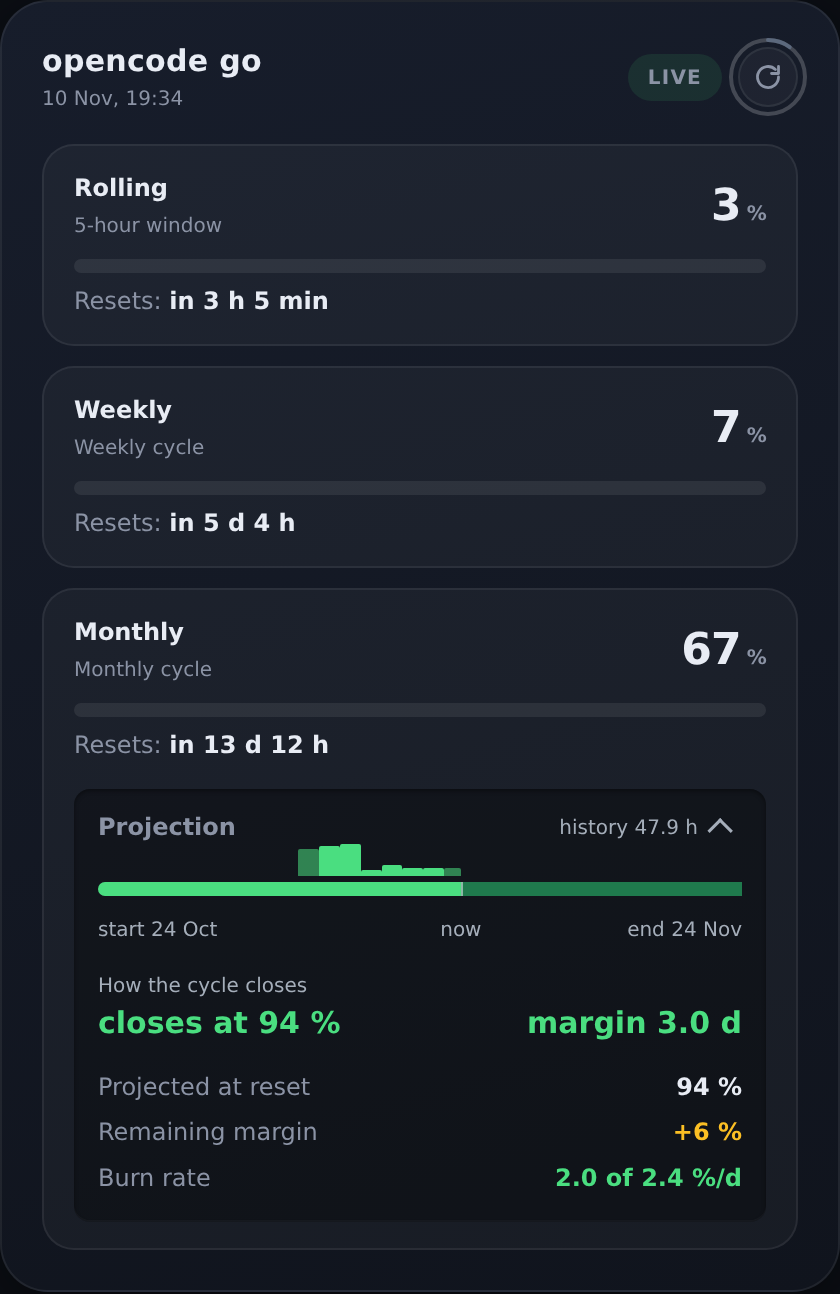
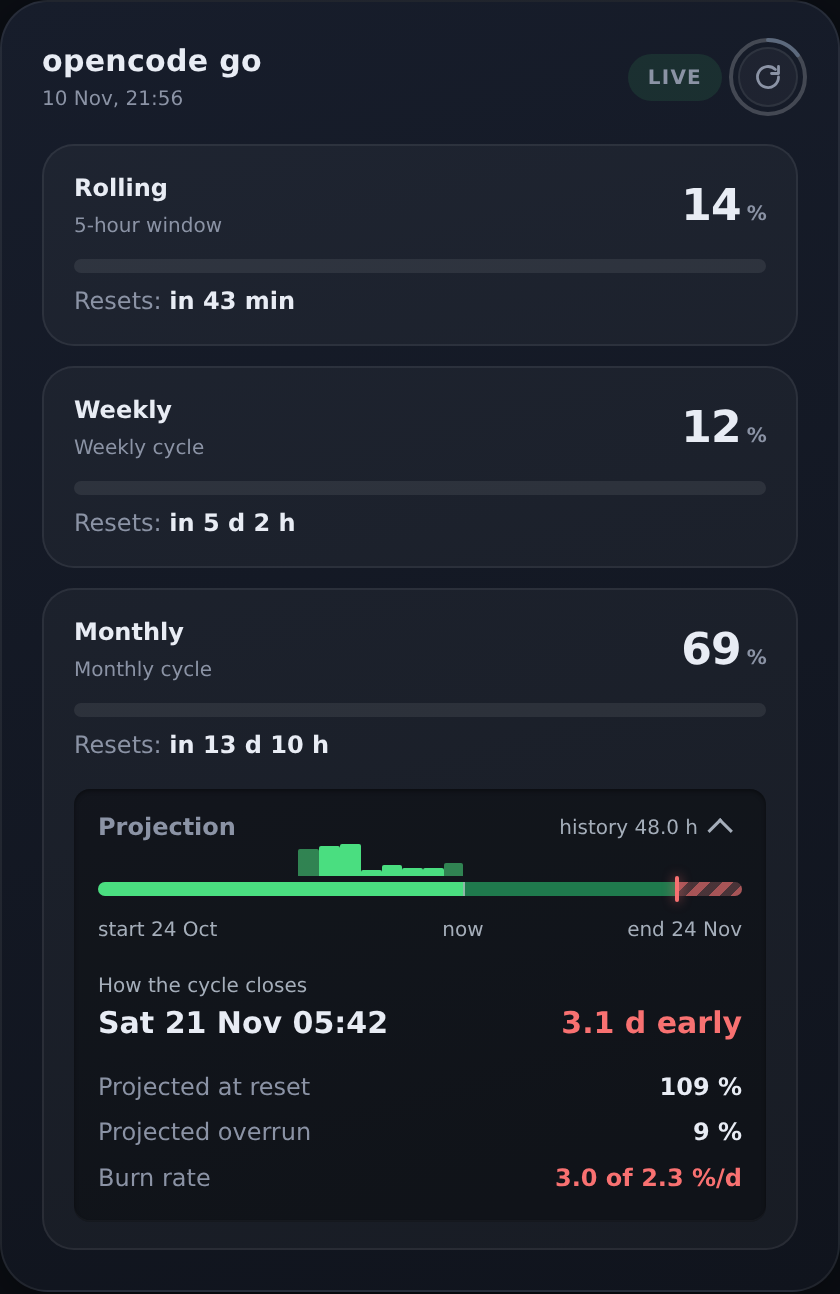
Screenshot from the real card, plus a fix for the axis date overlap
The README preview now shows the card doing the one thing it promises: at 69 %
of the monthly bucket the projection closes at 109 % on 21 Nov, three days
before the 24 Nov reset. A bare percentage would have read 69 % and looked fine.

Taken from this repo, not from the local copy on :8099. Those are two different
projects -- the local one carries peak/off-peak pricing rows and Spanish labels
("ritmo 47,9 h"), this one is model-agnostic and English ("history 48.0 h").
Shooting the repo HTML against the local server produced a card with the repo
layout and the other project's wording; the give-away was the Spanish basis in
an English UI. Served this repo's own serve.py against its own state.json here.

Axis fix: when exhaustion lands near the right edge, the limit date collided
with "end 24 Nov" -- measured in the DOM at 35 px of overlap, not guessed from
the image. The limit date is already spelled out in the "How the cycle closes"
row, so the axis copy is dropped. The check measures widths instead of using a
percentage threshold, because a date string changes width with the month.

Re-run on open and on refresh: a closed <details> reports zero widths, so the
first attempt silently no-opped on the state the page actually loads in. Caught
by testing the closed case instead of only the open one.

diff --git a/index.html b/index.html
@@ -1078,6 +1078,10 @@
     }
     renderCubes();
     renderProjection(payload.projection);
+    // The axis check needs real widths, which only exist once the block is
+    // visible. A closed <details> reports zeros, so this is a no-op there and
+    // runs for real on every refresh where the block is open.
+    settleAxisLabels();
   }
 
   function handleFetchError(err) {
@@ -1121,6 +1125,27 @@
   fetchQuota();
   setInterval(fetchQuota, REFRESH_MS);
   setInterval(tick, 1000);
+
+  // The limit date on the axis can collide with "end <date>" when exhaustion
+  // lands near the right edge. The limit is already spelled out in full in the
+  // "How the cycle closes" row, so the axis copy is dropped instead of printing
+  // two dates on top of each other. Measured, not guessed: a percentage
+  // threshold breaks as soon as a date string changes width. Re-run on open
+  // because a closed <details> reports zero widths and the check would no-op.
+  function settleAxisLabels() {
+    if (!projAxisMid || projAxisMid.hidden) return;
+    if (!projAxisEnd) return;
+    var midR = projAxisMid.getBoundingClientRect();
+    var endR = projAxisEnd.getBoundingClientRect();
+    if (!midR.width || !endR.width) return;
+    if (midR.right > endR.left - 4) projAxisMid.hidden = true;
+  }
+  if (projBlock) {
+    projBlock.addEventListener("toggle", function () {
+      if (projBlock.open) requestAnimationFrame(settleAxisLabels);
+    });
+  }
+  window.addEventListener("resize", settleAxisLabels);
 })();
 </script>
 </body>

diff --git a/README.md b/README.md
@@ -4,7 +4,7 @@
 
 **Three quota buckets. One burn rate. The date you run dry — before you run dry.**
 
-<img src="docs/preview.png" width="420" alt="The Runway card: rolling, weekly and monthly quota with the projected close">
+<img src="docs/preview.png" width="420" alt="The Runway card: rolling, weekly and monthly quota, with a projection that closes at 109 % three days before the reset">
 
 [![Python](https://img.shields.io/badge/python-3.9%2B-3776AB?logo=python&logoColor=white)](#quickstart)
 [![Dependencies](https://img.shields.io/badge/dependencies-0-brightgreen)](#what-it-is)
@@ -32,10 +32,12 @@ numbers that answer the question, and nothing else:
 - **The projected close** — current % plus your measured burn rate times the days
   left, and the date you hit 100 % if you keep going.
 
-Read together they say what a percentage cannot: `2.0 of 2.4 %/d` is under the
-ceiling with a little air. `3.8 of 2.4` runs dry before the reset, and the card
-names the day. The bars above the projection line are consumption per day,
-YouTube "most replayed" style: height is the data, colour is not.
+Read together they say what a percentage cannot. The card above is the real
+thing mid-cycle: `3.0 of 2.3 %/d` is over the ceiling, so the projection closes
+at **109 %** and names the day it happens — **21 Nov**, three days before the
+24 Nov reset. A percentage alone would have read `69 %` and looked fine. The
+bars above the projection line are consumption per day, YouTube "most replayed"
+style: height is the data, colour is not.
 
 No build, no CDN, no web fonts, no model names. **Your key never leaves the
 machine** — it is read locally and used only in an outbound request header; the
@@ -181,17 +183,17 @@ the service and the failure modes. Under the hood it runs one command that print
 For a terminal, a changelog, or anything that cannot render the image above:
 
 ```text
-  opencode go                         10 Nov, 18:32   ● LIVE   ↻
+  opencode go                         10 Nov, 21:54   ● LIVE   ↻
   ─────────────────────────────────────────────────────────────
-  Rolling    5-hour window       3 %   ▏▏▏                  in 4 h 8 min
-  Weekly     weekly cycle        7 %   ▏▏▏▏▏                in 5 d 5 h
-  Monthly    monthly cycle      67 %   ▏▏▏▏▏▏▏▏▏▏▏▏▏▏       in 13 d 13 h
-             ▁▂▃█▄▂▁▁▂ ···································
+  Rolling    5-hour window      14 %   ▏▏▏▏▏▏▏              in 45 min
+  Weekly     weekly cycle       12 %   ▏▏▏▏▏▏               in 5 d 2 h
+  Monthly    monthly cycle      69 %   ▏▏▏▏▏▏▏▏▏▏▏▏▏▏       in 13 d 10 h
+             ▁▂▃█▄▂▁▁▂▁▁▁▂▁▁ ···································
              start 24 Oct        now                end 24 Nov
-             How the cycle closes      closes at 94 %   margin 3.0 d
-             Projected at reset                             94 %
-             Remaining margin                               +6 %
-             Burn rate                              2.0 of 2.4 %/d
+             How the cycle closes   Sat 21 Nov 05:40   3.1 d early
+             Projected at reset                            109 %
+             Projected overrun                               9 %
+             Burn rate                              3.0 of 2.3 %/d
 ```
 
 </details>
